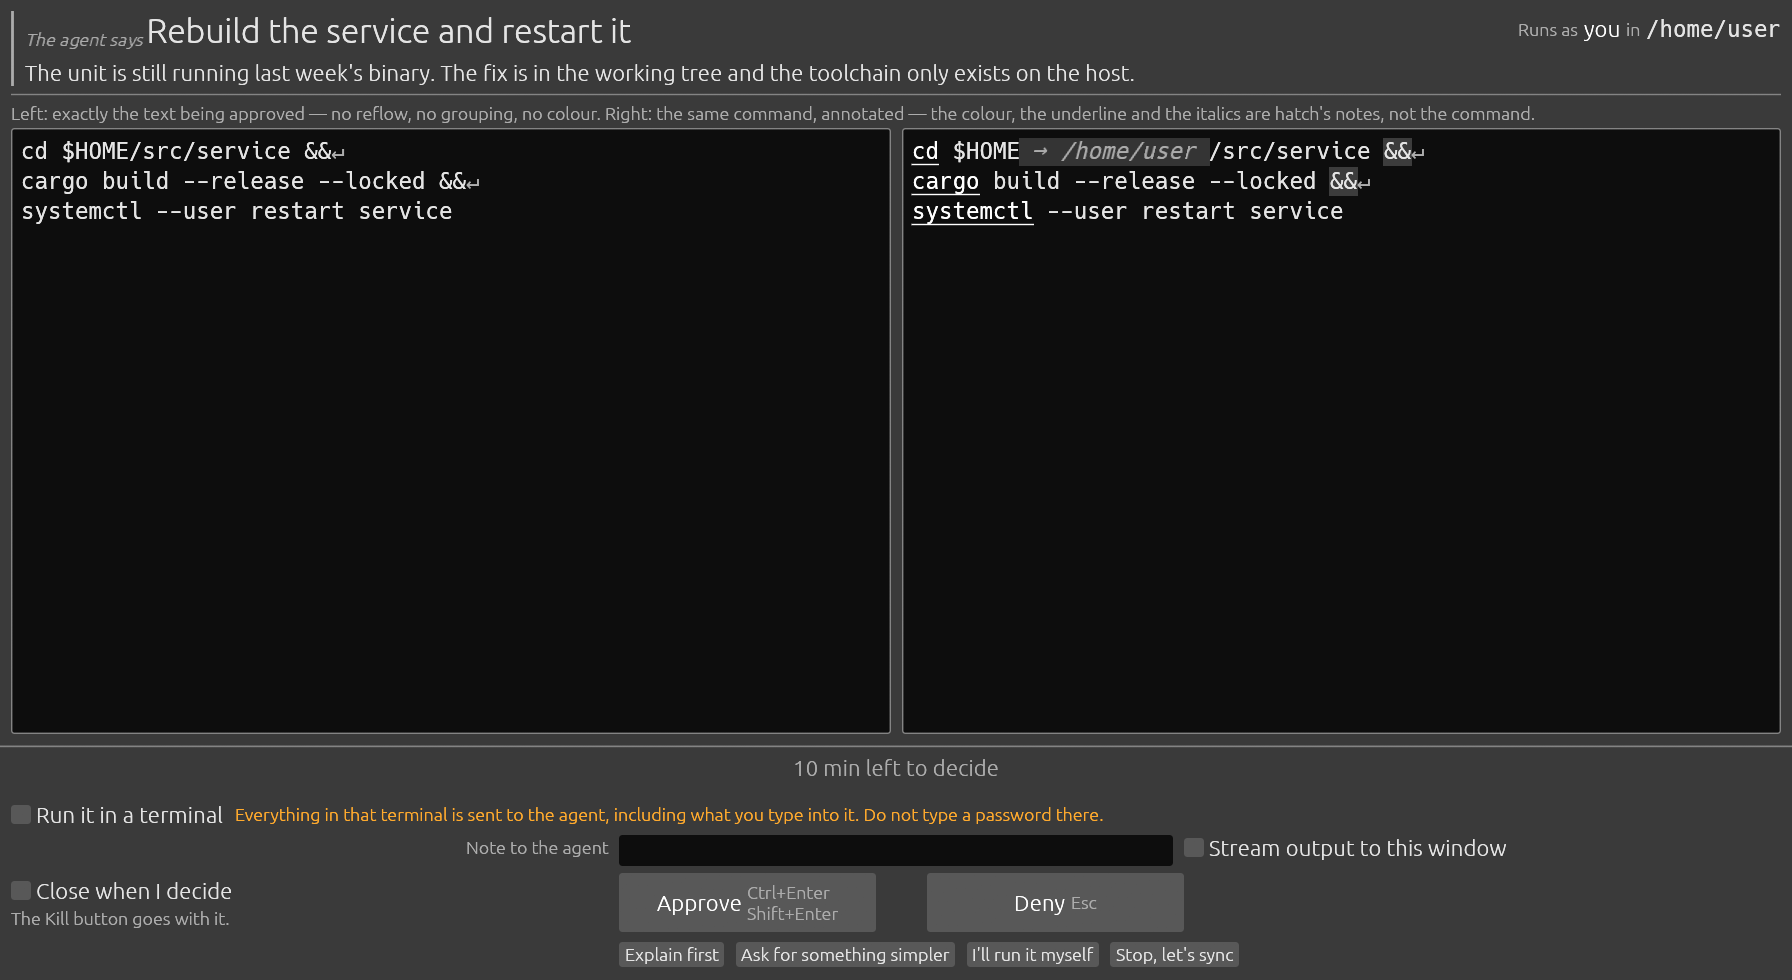
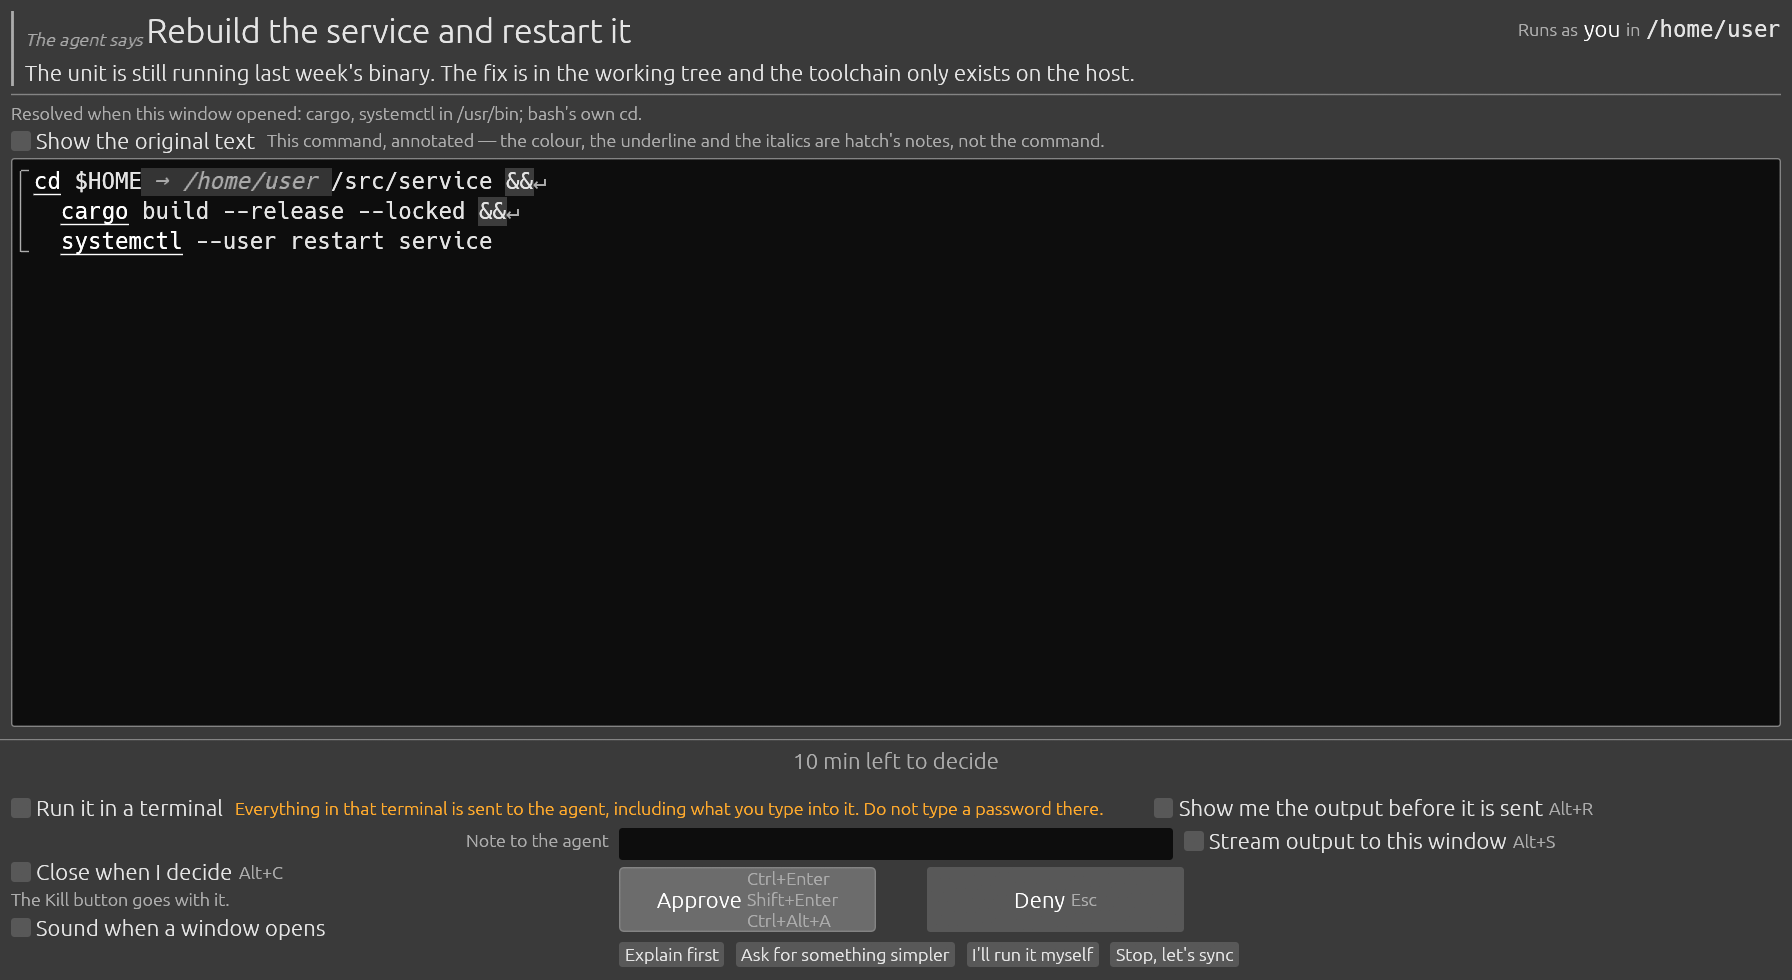
docs: the screenshots and the README describe the window as it is now
All five images are regenerated. They were taken before the window became one
pane, so every command shot showed the raw and annotated text side by side,
and none showed the printed chords, the review or sound boxes, the brackets,
or the root script drawn unquoted. They are shot with a throwaway config and
state directory, so no remembered tick of the machine that took them is in
them.

The text beside them is brought to what they show: one pane with Show the
original text, no numbered segments, the root script framed rather than inside
quotes, and no tinted cell in a swap sample that has none. The prefs table
lists all six keys rather than three; the chords paragraph no longer says the
review box is never remembered; the review screen says an empty stream gets no
pane; and the long sample is described by what it shows now.

The preview's long-sample help text and comments said the same stale things,
and CommandView -- the side-by-side or stacked choice -- was still defined with
nothing using it. It is gone.

Changed region(s): [[0.0, 0.0918, 1.0, 0.7959], [0.0, 0.7959, 0.875, 0.9796]]

diff --git a/src/preview.rs b/src/preview.rs
@@ -94,9 +94,9 @@ use crate::swap;
 /// How many frames are drawn after the request lands before the viewport is
 /// photographed.
 ///
-/// Not decoration. The two command panes decide between side by side and
-/// stacked from measurements they leave in egui's temporary memory for the
-/// next frame to read — see [`crate::prompt_ui::panes`] — a scroll area needs
+/// Not decoration. A diff decides between side by side and unified from
+/// measurements it leaves in egui's temporary memory for the next frame to
+/// read — see [`crate::prompt_ui::panes`] — a scroll area needs
 /// a frame to learn how tall its contents are, and the font atlas is built
 /// lazily on first use. A picture taken on the first frame is a picture of a
 /// window mid-thought. Eight is several times more than any of those need and
@@ -175,8 +175,8 @@ pub enum Scenario {
     Swap,
     /// A command that runs as root: the `ROOT` block and the danger frame.
     Root,
-    /// A command longer and wider than the window: the stacked panes, and the
-    /// line that says how much of it is out of sight.
+    /// A command longer and wider than the window: the line that says how much
+    /// of it is out of sight, and an original text wider than the pane.
     Long,
     /// A command with comments in it, including one that contains every
     /// separator hatch knows.
@@ -846,16 +846,16 @@ systemctl status service";
 /// The command behind [`Scenario::Long`].
 ///
 /// This scenario exists because the ones above it all fit. A sample that fits
-/// its panes exercises nothing about the window's account of what is off the
-/// end of them — the stacked arrangement, the strip that scrolls sideways,
-/// and the line under the caption that says how many rows are out of sight —
-/// and those are the parts a reader most needs to be able to look at, because
-/// they are the parts that exist for a command written to hide something.
+/// its pane exercises nothing about the window's account of what is off the
+/// end of it — the line under the caption that says how many rows are out of
+/// sight, and the original text running off to the right — and those are the
+/// parts a reader most needs to be able to look at, because they are the
+/// parts that exist for a command written to hide something.
 ///
 /// So it is long in both directions on purpose. More lines than a window of
 /// any ordinary height can show, and one line — the `rsync` — far wider than
-/// a full-width pane, which is what sends the panes into the stacked
-/// arrangement and runs the raw strip off its right edge.
+/// a full-width pane: the annotated rendering wraps it, and the original text,
+/// which never reflows, runs it off the pane's right edge.
 ///
 /// It is still a command somebody might really write. A sample of padding
 /// would demonstrate the same rectangles and teach nobody what the window is
@@ -1378,10 +1378,10 @@ mod tests {
 
     #[test]
     fn the_long_sample_really_is_longer_and_wider_than_a_pane() {
-        // The point of the scenario. A sample that fitted its panes would
-        // exercise none of what it is there for -- the stacked arrangement,
-        // a strip with text off to the right of it, and the line that says
-        // how many rows are out of sight -- and it would go on looking like
+        // The point of the scenario. A sample that fitted its pane would
+        // exercise none of what it is there for -- an original text running
+        // off to the right, and the line that says how many rows are out of
+        // sight -- and it would go on looking like
         // a perfectly good sample while doing so.
         let staging = tempfile::tempdir().unwrap();
         let sample = build(Scenario::Long, &a_config(), platform().as_ref(), staging.path())

diff --git a/src/prompt_ui/panes.rs b/src/prompt_ui/panes.rs
@@ -651,17 +651,6 @@ pub enum DiffView {
     Unified,
 }
 
-/// How the two command panes are being drawn.
-#[derive(Debug, Clone, Copy, PartialEq, Eq)]
-pub enum CommandView {
-    /// Two columns: the exact text on the left, hatch's annotated form on the
-    /// right, each with the whole height of the window.
-    SideBySide,
-    /// The annotated pane under the raw one. What the panes fall back to when
-    /// two columns cannot hold them.
-    Stacked,
-}
-
 /// One drawn line's width in characters, notes included.
 ///
 /// Characters and not pixels, and the count is exact rather than an estimate.

diff --git a/README.md b/README.md
@@ -18,22 +18,24 @@ HTTP on loopback, and a short-lived egui window spawned once per request.
 without an agent asking for anything.
 
 ![The hatch approval window. The agent's title and reason are at the top,
-marked as the agent's own words; below them a three-line shell command appears
-twice, raw on the left and annotated on the right. Along the bottom: a
-countdown, a terminal checkbox carrying a warning that a transcript captures
-what is typed into it, a note field, a stream checkbox, a box that closes the
-window once a decision is made, Approve and Deny with their keyboard shortcuts,
-and four narrower buttons.](media/approval-command.png)
+marked as the agent's own words; below them a line saying where each program
+the command names was found, and a three-line shell command, annotated, with a
+bracket down its left edge. Along the bottom: a countdown, a terminal checkbox
+carrying a warning that a transcript captures what is typed into it, a box to
+read the output before it is sent, a note field, a stream checkbox, a box that
+closes the window once a decision is made, a sound checkbox, Approve and Deny
+with their keyboard shortcuts, and four narrower buttons.](media/approval-command.png)
 
 *One request, waiting. The header is the agent's own words, marked as such: a
-rule down the side and "The agent says" in front of them. The left pane is
-exactly the text being approved — no reflow, no colour. The right is the same
-text annotated: numbered segments, `$HOME` shown with the value the command
-will actually receive, the `&&` that ends each segment still on screen with the
-line break it is followed by drawn as a quiet `↵` rather than silently
-swallowed. The header counts what it found, the countdown says how long is left
-before the window denies on its own, and the buttons name the keys that do the
-same thing.*
+rule down the side and "The agent says" in front of them. Under it, where each
+program the command names was found, looked up on the `PATH` the command will
+actually get. The pane is the command annotated: `$HOME` shown with the value
+the command will receive, the `&&` joining the three steps still on screen
+with the line break after it drawn as a quiet `↵` rather than silently
+swallowed, and a bracket and indentation showing that the three lines are one
+statement. **Show the original text** swaps it for the bytes exactly as sent.
+The countdown says how long is left before the window denies on its own, and
+every control with a key prints that key on itself.*
 
 <sub>`hatch preview command --shot media/approval-command.png` — see
 [Look at it yourself](#look-at-it-yourself-hatch-preview).</sub>
@@ -194,7 +196,7 @@ the program: `shell_quote` rewrites every `'` as `'\''`, and a Clojure program
 — where `'` is the quote form — comes out riddled with four-character
 sequences that are not in it. A reader cannot check text like that, and
 checking it is the whole of what the window is for. So the boundary is shown
-instead by a frame down the gutter and a line above the panes saying the run
+instead by a frame down the gutter and a line above the pane saying the run
 is one argument. Nothing about what runs changes either way: an argv is a list
 and `execve` takes a list, so quoting never reached it. **Copy command** quotes
 the program back, because that is the one control that hands the line to
@@ -417,9 +419,10 @@ ran as root.
 ![A root approval window. The whole window is enclosed in a red frame; in the
 header the word ROOT is reversed out of a filled red block, and above the panes
 a warning explains that a root command may be given a terminal where an
-ordinary one gets a pipe. The command is the run0 line, with the approved
-command beginning on its own line below run0's own options and drawn as shell
-inside the quotes hatch wrapped it in.](media/approval-root.png)
+ordinary one gets a pipe. The command is the run0 line: run0's own options,
+then `bash -c`, then the approved script on lines of its own, unquoted, framed
+down the left edge and drawn as shell — commands underlined, the loop
+bracketed and indented.](media/approval-root.png)
 
 <sub>`hatch preview root --shot media/approval-root.png`</sub>
 
@@ -604,8 +607,9 @@ marked.](media/approval-swap.png)
 *The metadata panel is the part a diff cannot show: which file, create or
 replace, at what mode, owned by whom, and how much larger. A replacement
 inherits the existing mode and owner, and the write either matches what the
-window said or does not happen. The tinted cell on the left is a row that side
-has no line for, which is not the same as a blank line.*
+window said or does not happen. The blank rows here are blank lines in both
+files; a row one side has no line for is tinted instead, which the line above
+the diff says.*
 
 <sub>`hatch preview swap --shot media/approval-swap.png`</sub>
 
@@ -627,11 +631,10 @@ I decide** and **Show me the output before it is sent**. Chords rather than
 bare letters, because the note field has the keyboard and a window where `s`
 means something other than the letter `s` eats what you type into it. They
 wait out the same guard as Approve does, which is not because a checkbox is
-dangerous but because the first two are remembered: what they write outlives
-the window, and the undo for a file is a box in a request nobody has made yet.
-Alt+R waits the same guard and writes nothing down, because that box is never
-remembered — see [Reviewing the output](#reviewing-the-output-before-it-goes).
-Aimed at a box that is dead — Alt+S on a command that is getting a terminal of
+dangerous but because all three are remembered: what they write outlives the
+window, and the undo for a file is a box in a request nobody has made yet. A
+chord writes down exactly what a click on the same box would — see
+[Reviewing the output](#reviewing-the-output-before-it-goes). Aimed at a box that is dead — Alt+S on a command that is getting a terminal of
 its own, Alt+R on a write, which prints nothing — they tick nothing and flash
 the sentence saying why instead.
 
@@ -768,7 +771,9 @@ in a viewer.
 
 **When the command finishes, the window shows its output as it will go.**
 stdout and stderr are two panes, side by side, each captioned with how many of
-its lines will be sent; a terminal run's transcript is one pane, and is
+its lines will be sent. A stream the command printed nothing on gets no pane —
+one quiet line says so, and the other takes the width. A terminal run's
+transcript is one pane, and is
 reviewed like any other output — it can hold what you typed into the terminal,
 which is the strongest case there is for reading it first. Two filters sit
 above them:
@@ -849,9 +854,10 @@ hatch preview --theme light       # the other palette, for this window only
 window on a sample request, reading the same config `hatch prompt` reads. It is
 how you see what your `font_size`, `theme` and `terminal` settings actually
 render as without having to get an agent to knock on the door. The `long` sample is
-the one that does not fit: it is there so the stacked panes, the strip that
-scrolls sideways and the line that says how many rows are out of sight are
-something you can look at rather than read about. The `comment` sample puts an
+the one that does not fit: it is there so the line that says how many rows are
+out of sight, and — under **Show the original text**, which does not reflow —
+a line that runs off to the right, are something you can look at rather than
+read about. The `comment` sample puts an
 `&&` inside a comment two rows above an `&&` that really is a boundary, so the
 difference is something you can see rather than take on trust. The `redirect`
 sample does the same for a `>|`, which is one operator, and the `|` three rows
@@ -1252,7 +1258,7 @@ to see what a `font_size` or a `theme` actually looks like before an agent
 does. `theme = "light"` is the same window as the one at the top of this page:
 
 ![The same approval window in the light palette: dark text on a pale ground,
-with the same two panes, the same annotations and the same
+with the same pane, the same annotations and the same
 buttons.](media/approval-command-light.png)
 
 <sub>`hatch preview command --theme light --shot media/approval-command-light.png`</sub>
@@ -1265,29 +1271,31 @@ request is drawn in whatever that is.
 
 `$XDG_STATE_HOME/hatch/prefs.toml`, by default
 `~/.local/state/hatch/prefs.toml`. One file, one job: the choices the window
-writes down because you ticked them in it. Three keys —
+writes down because you ticked them in it. Six keys —
 
 | Key | What ticking it remembers |
 |---|---|
 | `close_on_decide` | A command's window goes as soon as you answer, instead of staying to show the run |
 | `stream` | The window shows the output as it arrives |
+| `review` | You read a command's output before any of it is sent |
 | `terminal` | The command gets a terminal of its own |
+| `show_original` | The window opens on the original text instead of the annotated one |
+| `sound` | A window opening plays a sound |
 
 — and there is nothing to hand-edit: ticking the box in the window is how each
-one is set, and Alt+C and Alt+S are how the first two are set without the
-mouse. Every default is off, so a first run and a file hatch cannot read are
+one is set, and Alt+C, Alt+S and Alt+R are how the first three are set without
+the mouse. Every default is off, so a first run and a file hatch cannot read are
 the same window.
 
-The first two change what you see. `terminal` does not: it changes how the
-command runs, and everything in that terminal — including what you type into
-it — goes back to the agent. A tick made today therefore decides how a request
-next week executes. It is still one box, on screen, in the window that is
-asking, and the capture warning is drawn beside it whether or not it is
-ticked; it is worth knowing which of the three it is.
-
-The fourth box, **Show me the output before it is sent**, is deliberately not
-here: it is a choice about the command in front of you, and it opens unticked
-every time. See [Reviewing the output](#reviewing-the-output-before-it-goes).
+Most of them change what you see or hear. `review` changes what the agent is
+sent, and only ever in the direction of less: every run waits for you, and a
+window that ends without an answer sends nothing — see
+[Reviewing the output](#reviewing-the-output-before-it-goes). `terminal` is
+the one to know about: it changes how the command runs, and everything in that
+terminal — including what you type into it — goes back to the agent. A tick
+made today therefore decides how a request next week executes. It is still one
+box, on screen, in the window that is asking, and the capture warning is drawn
+beside it whether or not it is ticked.
 
 `stream` beats `close_on_decide` when both are on, because a window that has
 gone shows nothing. The close box is then greyed with *You stream every run.*
